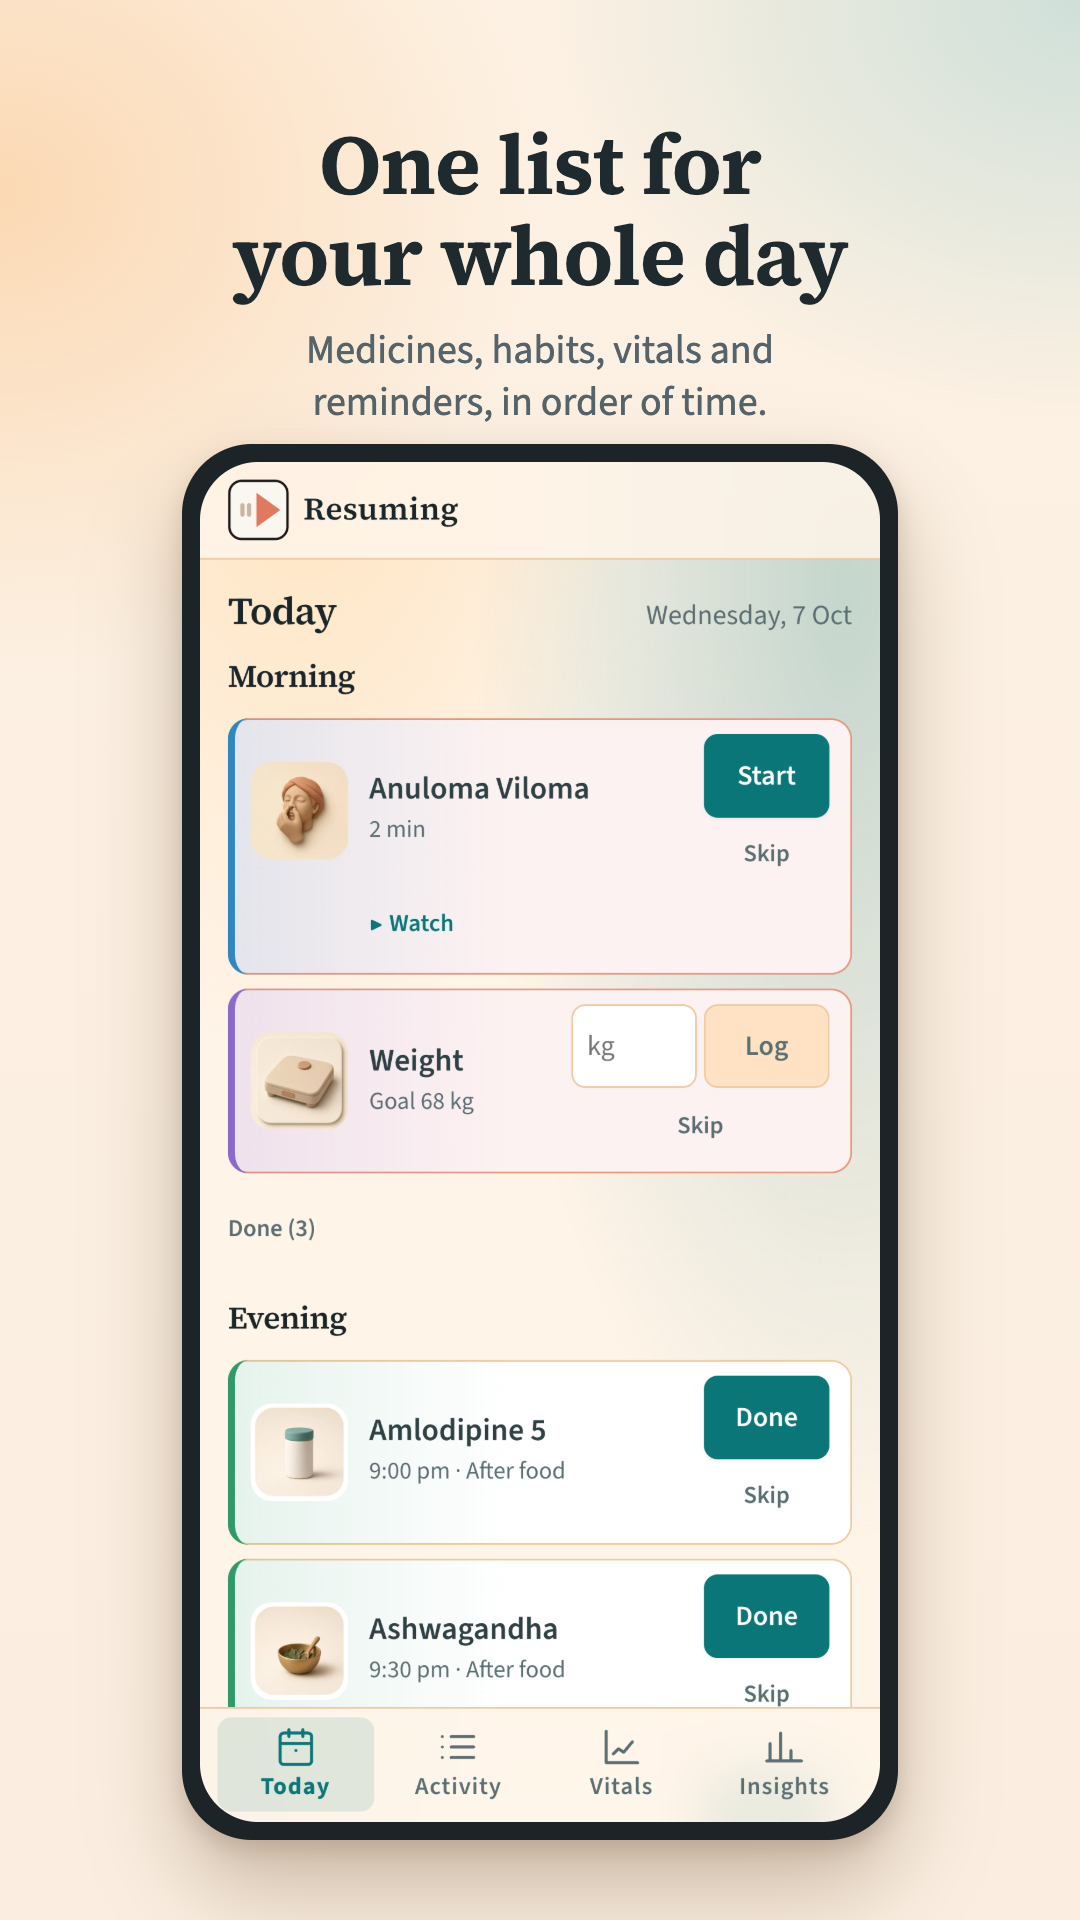
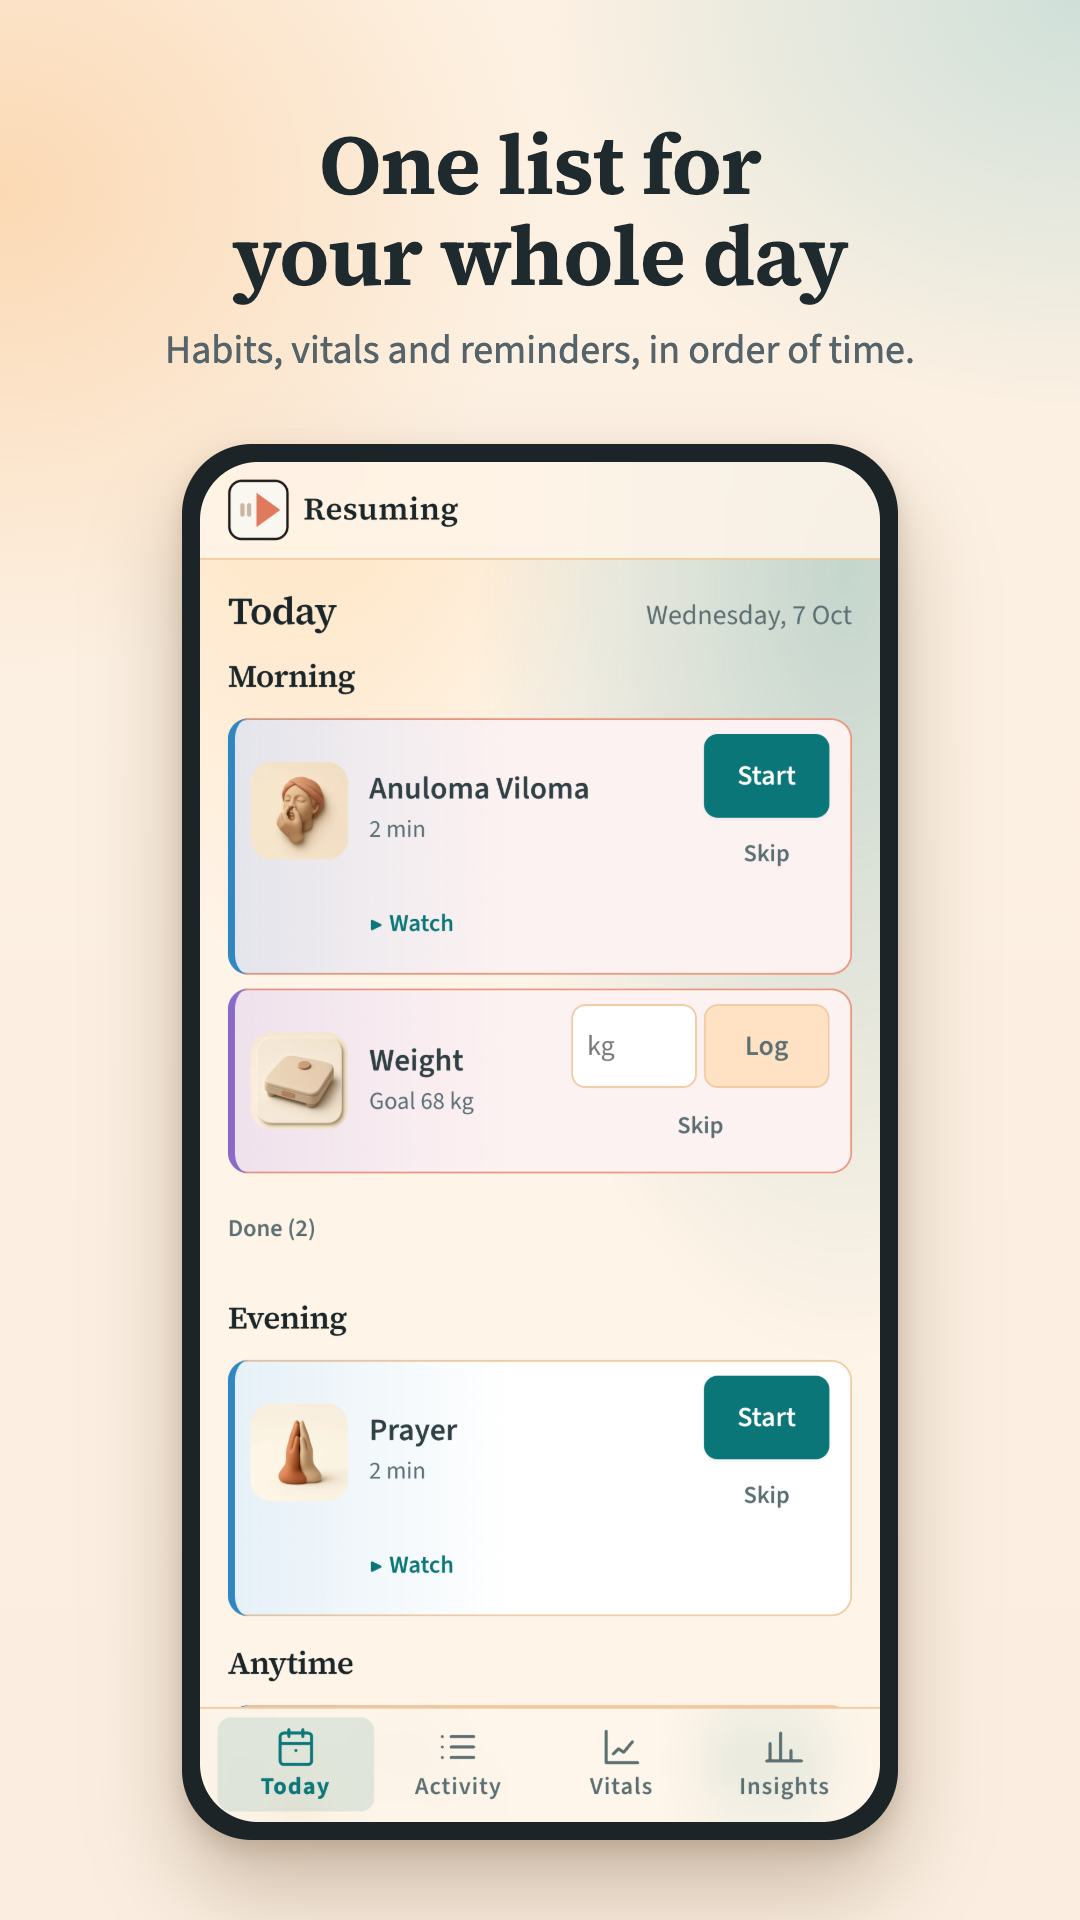
Make the Android build version 5 (1.0.2), and rewrite the Play listing around habits, vitals, and reminders.
New app name, descriptions, five screenshots, and a feature graphic without medicines. The listing notes which Health apps boxes to tick.

diff --git a/play-listing/listing-en.md b/play-listing/listing-en.md
@@ -2,24 +2,18 @@
 
 ## App name (max 30)
 
-Resuming: Medicines & Habits
+Resuming: Habits & Reminders
 
 ## Short description (max 80)
 
-Medicines, habits, BP & reminders in one daily list. Missed a day? Just resume.
+Habits, vitals and reminders in one daily list. Missed a day? Just resume.
 
 ## Full description (max 4000)
 
-Resuming is one simple daily list for your medicines, habits, blood pressure and reminders. And when you miss a day, it helps you start again. No guilt, no broken streaks.
-
-MEDICINES ON TIME
-• Add each medicine with its days and times, before or after food
-• Get an alarm when it is time, and tick it off when you take it
-• Take a photo of the strip or bottle so you never mix them up
-• Allopathic, Ayurvedic or Homeopathic
+Resuming is one simple daily list for your habits, vitals and reminders. And when you miss a day, it helps you start again. No guilt, no broken streaks.
 
 HABITS THAT FIT YOUR DAY
-• Walking, pranayam, Heartfulness meditation, prayer, reading and more
+• Walking, running, workouts, pranayam, prayer, reading and more
 • Start small. Two minutes counts.
 • Use the built-in timer, or just tick it off
 • Missed a few days? Resuming suggests a smaller step to get going again
@@ -39,20 +33,17 @@ MADE FOR INDIA
 • Try it without an account. Sign in with Google or email to keep your data safe.
 • Free. No ads. Your data stays yours.
 
-Resuming is not a medical device and does not give medical advice. Always follow your doctor's advice about your medicines and health.
+Resuming is a wellness and habit app. It is not a medical device and does not give medical advice.
 
-## Phone screenshots (screenshots/, 1080x1920, upload in order)
+## Screenshot captions (in order)
 
-1. `01-today.png`: One list for your whole day
-2. `02-medicines.png`: Medicines on time, every time
-3. `03-vitals.png`: Your BP, weight and medicines together
-4. `04-habits.png`: Small steps count
-5. `05-reminders.png`: Bills, visits, birthdays: never forget
-6. `06-setup.png`: Set up in a minute
+Files are in `screenshots/`.
 
-## Feature graphic
-
-`feature-graphic.png` (1024x500): "Missed a day? Just resume."
+1. One list for your whole day
+2. Small steps count
+3. Your BP and weight, week by week
+4. Bills, visits, birthdays: never forget
+5. Set up in a minute
 
 ## Tags / category
 
@@ -60,3 +51,12 @@ Resuming is not a medical device and does not give medical advice. Always follow
 - Contact email: resuming.me@gmail.com
 - Website: https://resuming.me
 - Privacy policy: https://resuming.me/privacy
+
+## App content: Health apps declaration
+
+Tick only these:
+
+- Activity and fitness
+- Stress management, relaxation, mental acuity
+
+Do not tick "Medication and treatment management". Medicines are hidden in the Android app until it moves to an organization developer account.
